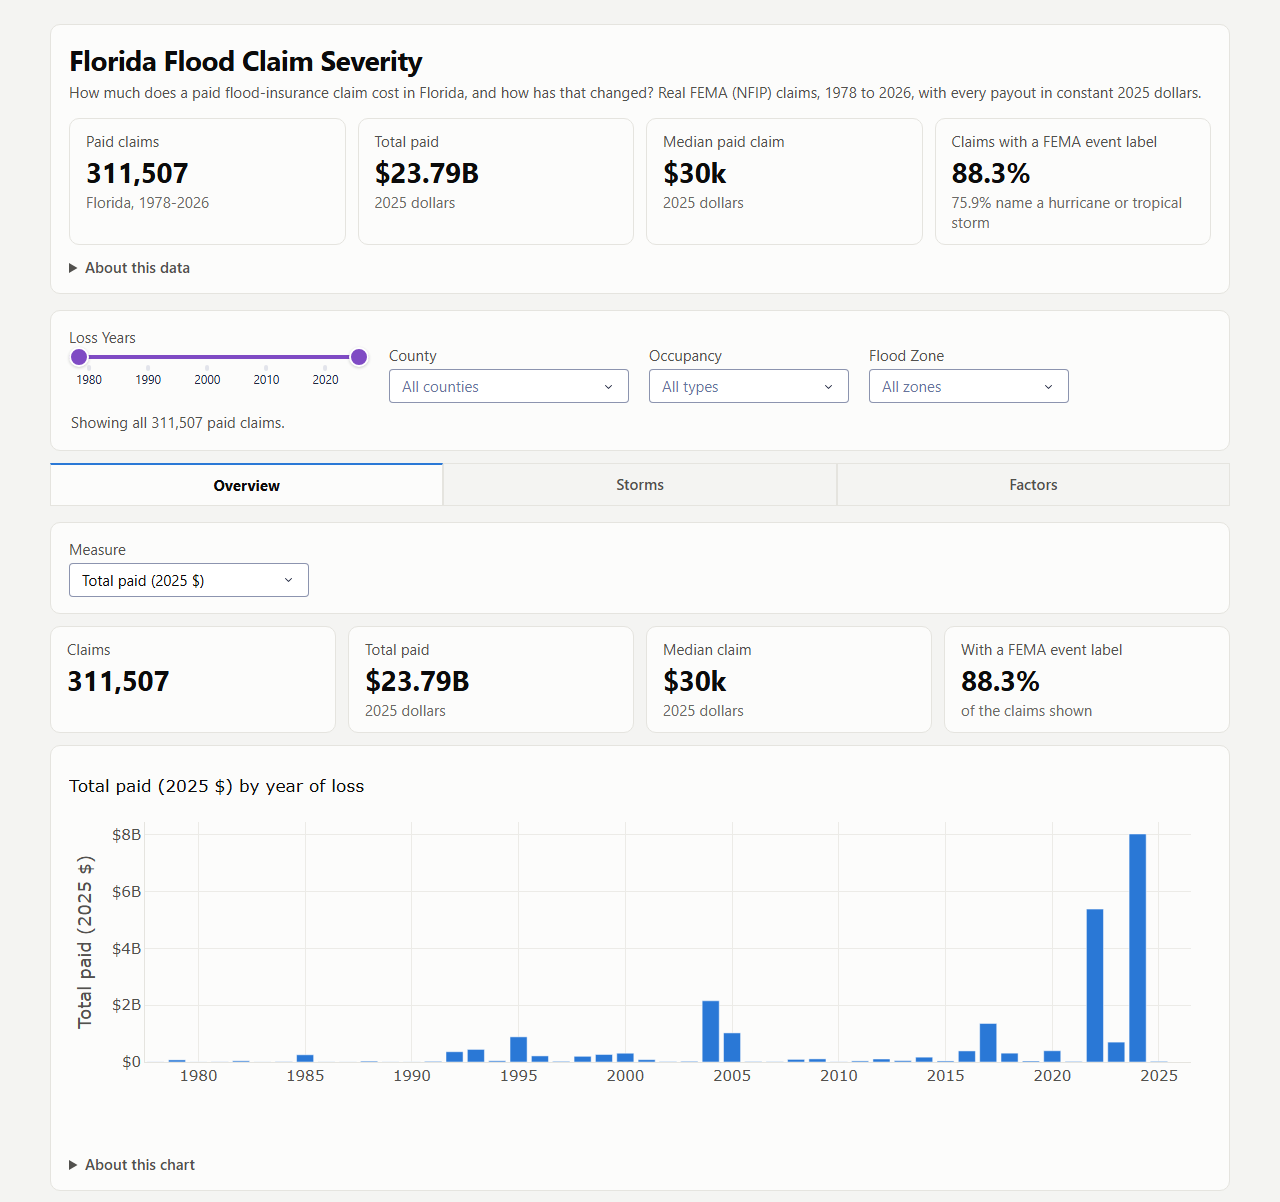
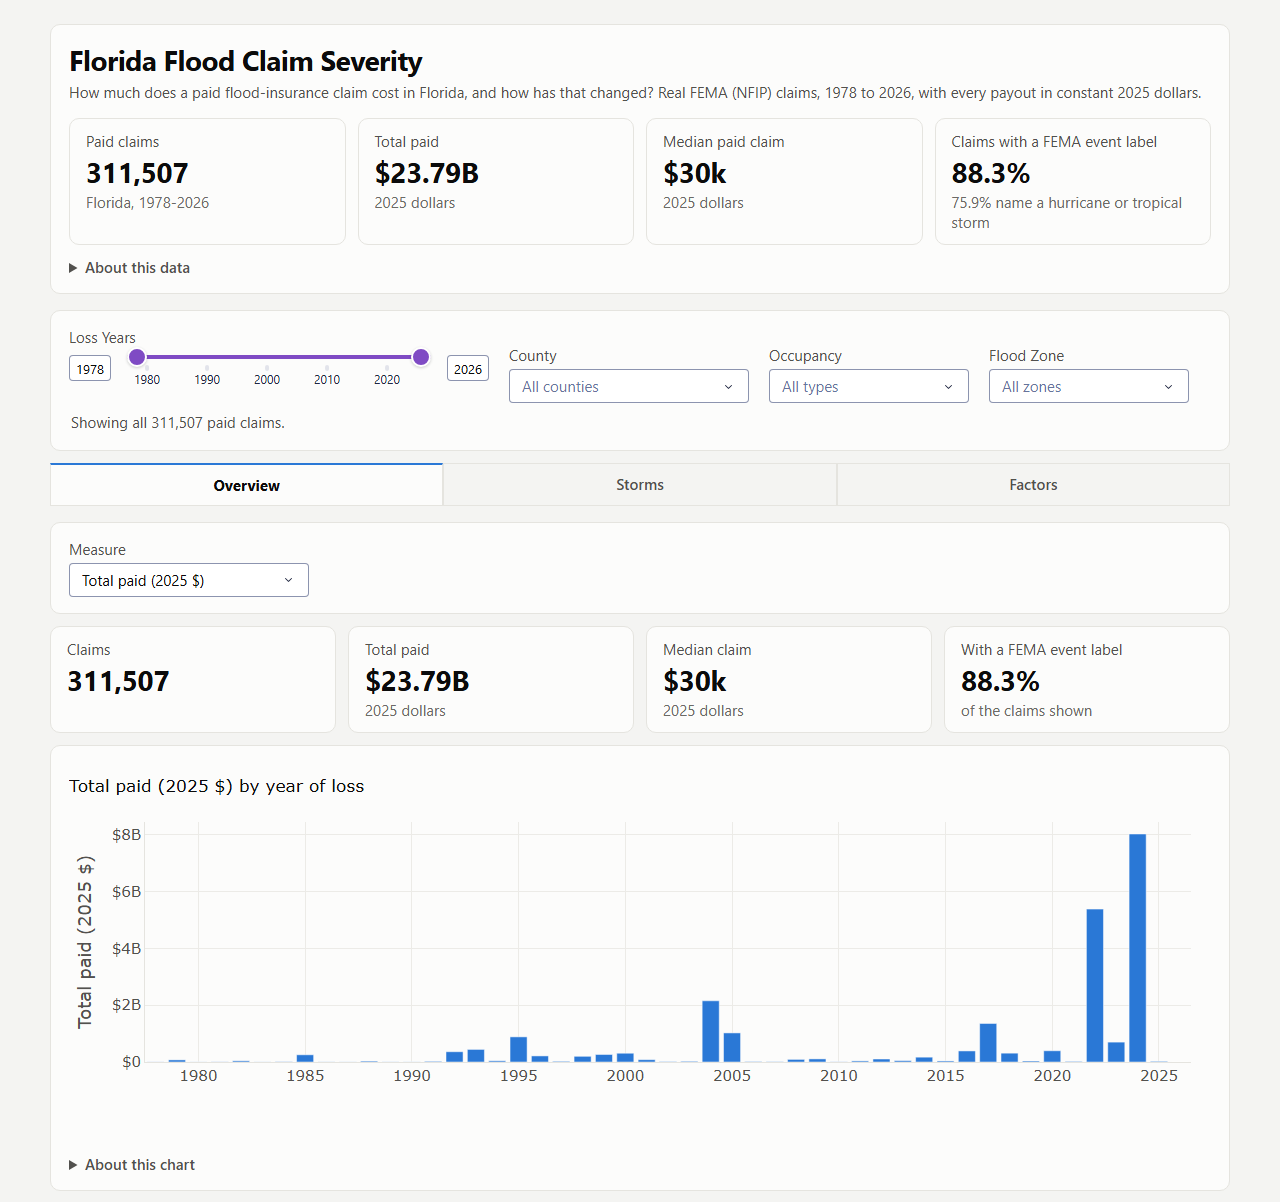
Retake the screenshot from the live app and update the hosted memory figures
The screenshot shows the typed From and To year boxes beside the slider, as the live app does (1280 x 1202, taken after the deploy of the
sensitivity checks). The Methodology quotes the hosted memory /debugz reports on the new process: about 195 MB after loading the app and
about 230 MB after the three tabs have been opened. Locally, memory after loading the app is the same on pandas 3.1.0 and 3.1.1.

diff --git a/docs/METHODOLOGY.md b/docs/METHODOLOGY.md
@@ -237,6 +237,6 @@ Run order (details in the README): `pipeline/fetch_data.py`, `pipeline/build_dat
 
 The hosted dashboard runs on Render's Starter plan (512 MB of RAM, kept awake). The service installs `requirements-render.txt` and serves `wsgi.py` with gunicorn 26.2.0 (one worker, four threads); `docs/render.yaml` records these settings, and Render's dashboard controls the live service, with its settings taking precedence over the file.
 
-The app holds all 311,507 paid claims as one compact table (4.0 MB on disk) and filters it live; the headline numbers are precomputed in `summary.json`. On Render the process uses about 160 MB after loading the app and about 205 MB after the three tabs have been opened (`/debugz` reports the live figure).
+The app holds all 311,507 paid claims as one compact table (4.0 MB on disk) and filters it live; the headline numbers are precomputed in `summary.json`. On Render the process uses about 195 MB after loading the app and about 230 MB after the three tabs have been opened (`/debugz` reports the live figure).
 
 `wsgi.py` answers `/healthz` immediately and imports the dashboard in a background thread started on the first request in each worker process (a thread started when the module is imported exists only in gunicorn's master process, so the worker would never finish loading). `/debugz` reports whether the app has loaded, its memory use and any startup error.
